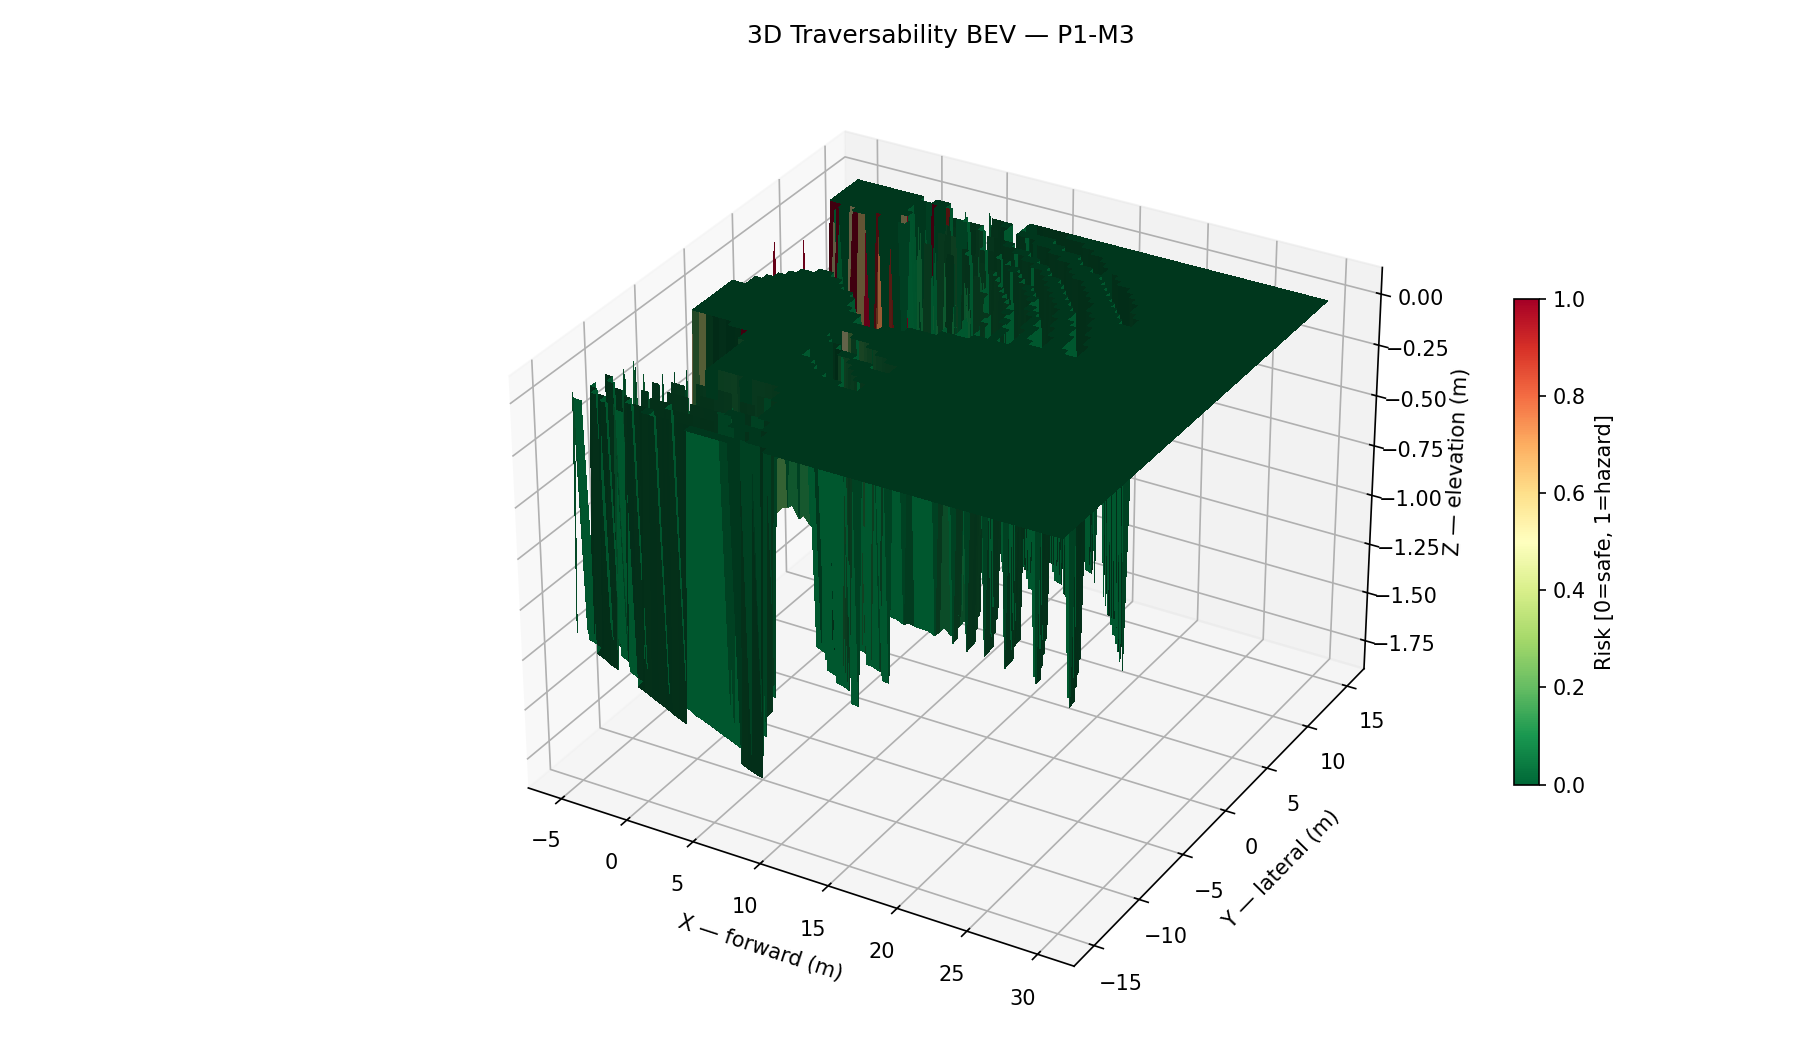
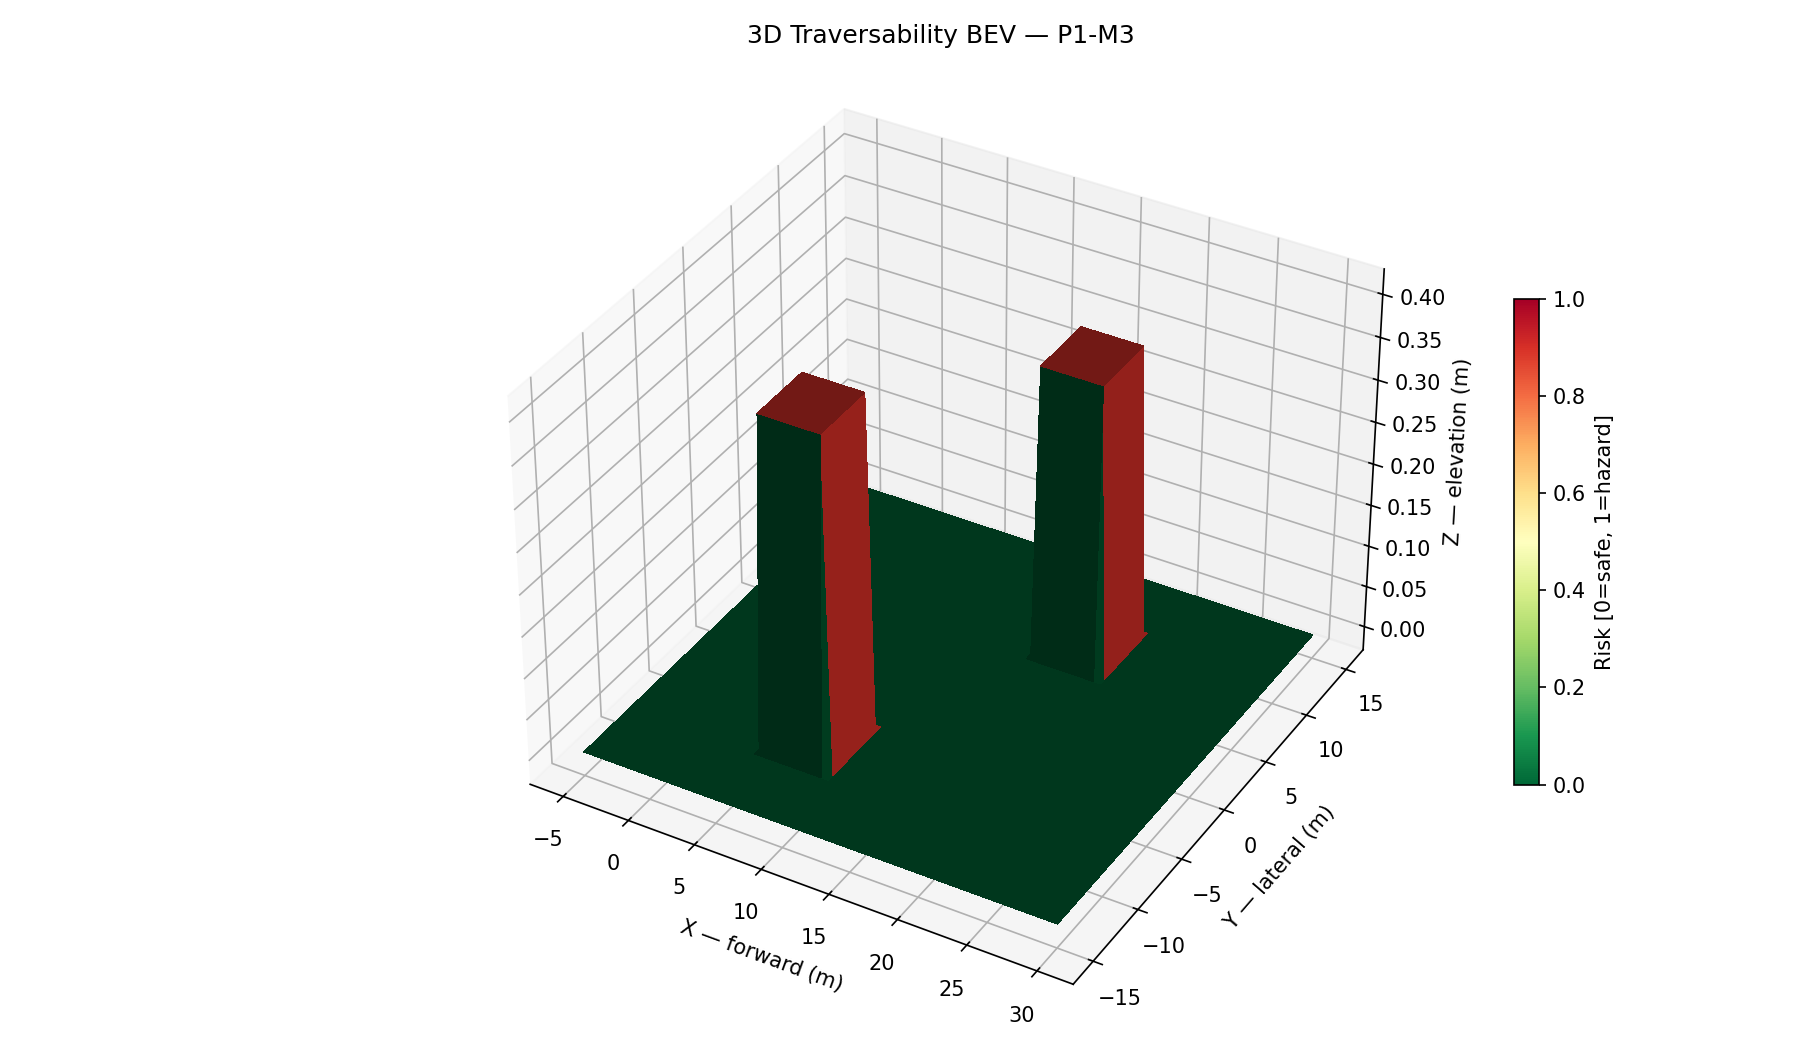
Fix blog

Changed region(s): [[0.28, 0.1524, 0.84, 0.9752], [0.6844, 0.4267, 0.7156, 0.4571]]

diff --git a/scripts/visualize_bev.py b/scripts/visualize_bev.py
@@ -180,6 +180,7 @@ def plot_3d_bev(mean_z, risk, out_path, title_suffix=""):
                     facecolors=cmap(risk),
                     rstride=1, cstride=1, linewidth=0, antialiased=False)
     ax.scatter([0], [0], [0], c="blue", s=120, marker="^", zorder=5)
+    ax.view_init(elev=35, azim=-60)   # look from above-left: X forward, Y lateral visible
     ax.set_xlabel("X — forward (m)")
     ax.set_ylabel("Y — lateral (m)")
     ax.set_zlabel("Z — elevation (m)")

diff --git a/docs/m3-traversability.md b/docs/m3-traversability.md
@@ -171,14 +171,19 @@ The blue triangle marks the vehicle position at the origin.
 *Figure 2: Per-cell feature heatmaps. Elevation (terrain colormap), risk (RdYlGn reversed), slope in degrees, roughness (eigenvalue ratio), step height, and confidence. Low-confidence cells show at 0 for all features.*
 
 ![BEV 3D Surface](assets/bev_3d.png)
-*Figure 3: 3D surface visualization colored by risk. Elevation (Z) reflects the per-cell mean height extracted from the ground point cloud; color follows the risk value.*
+*Figure 3: 3D surface visualization colored by risk. Elevation (Z) reflects the per-cell mean height; color follows risk (green = safe, red = hazard).*
+
+### Animated BEV — 100 RELLIS-3D Frames
+
+![BEV Animation](assets/bev_animation.gif)
+*Figure 4: Animated 2D BEV grid over 100 consecutive LiDAR scans from a RELLIS-3D sequence. Each frame is independently processed through the full pipeline: bag extraction → RANSAC ground segmentation → traversability grid. The gray (unknown) region shifts as the sensor moves; hazard patches appear consistently on rough or sloped terrain patches.*
 
 ### Synthetic Validation
 
 To validate the pipeline independently of real data, we also tested with a synthetic grid containing two hazard patches on a safe background:
 
 ![Synthetic BEV](assets/bev_synthetic.png)
-*Figure 4: Synthetic traversability grid — two high-risk patches (red) with low-confidence border region (gray).*
+*Figure 5: Synthetic traversability grid — two high-risk patches (red) with low-confidence border region (gray).*
 
 ---
 
